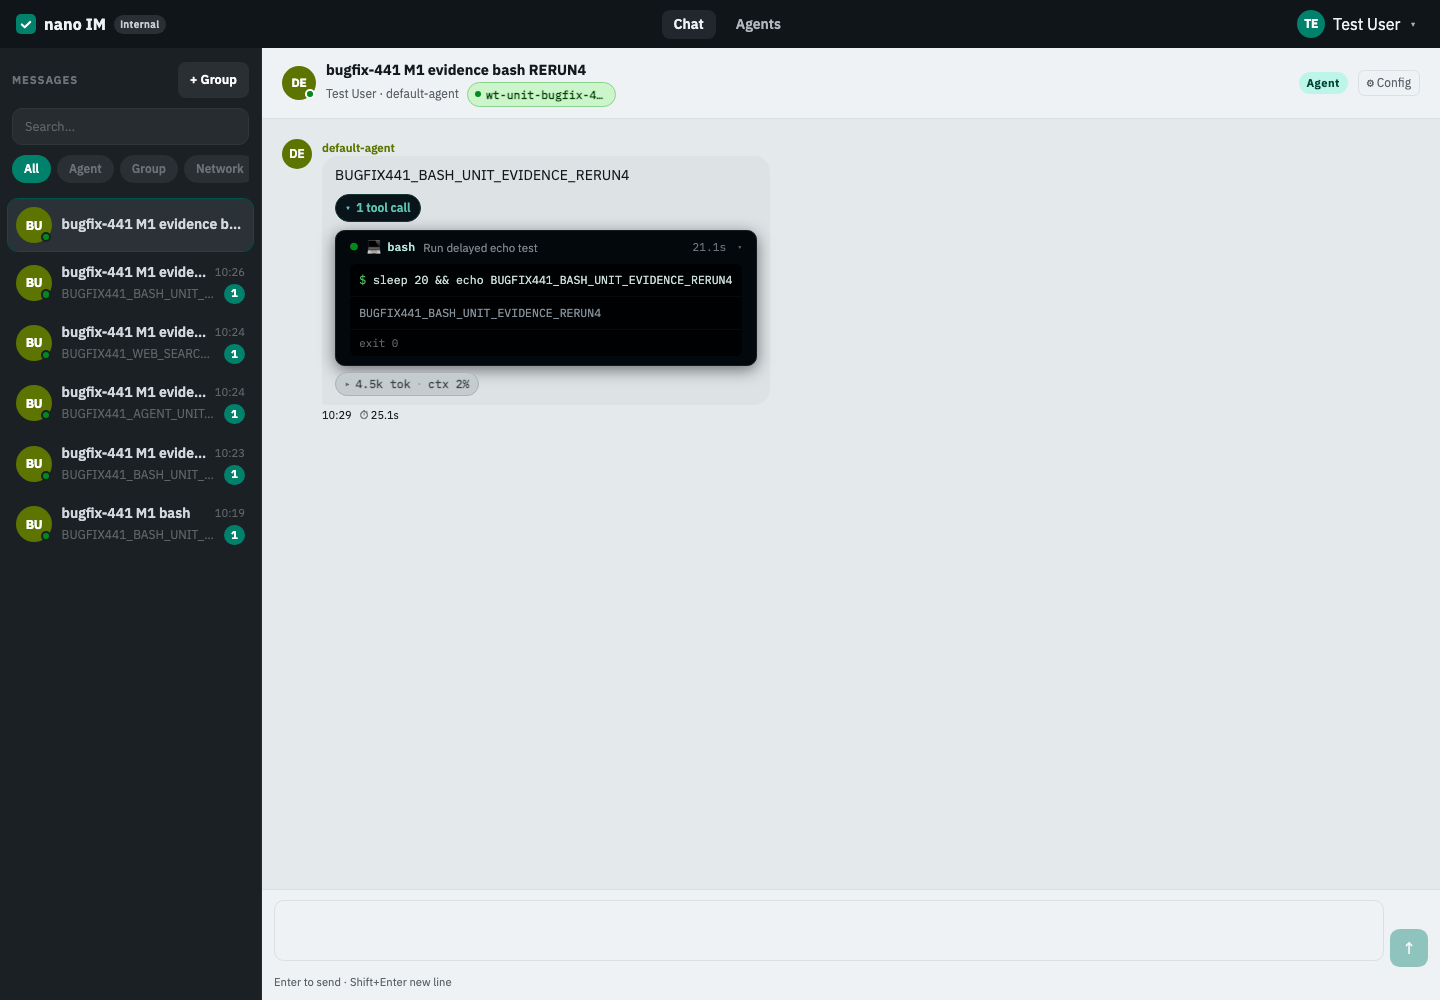
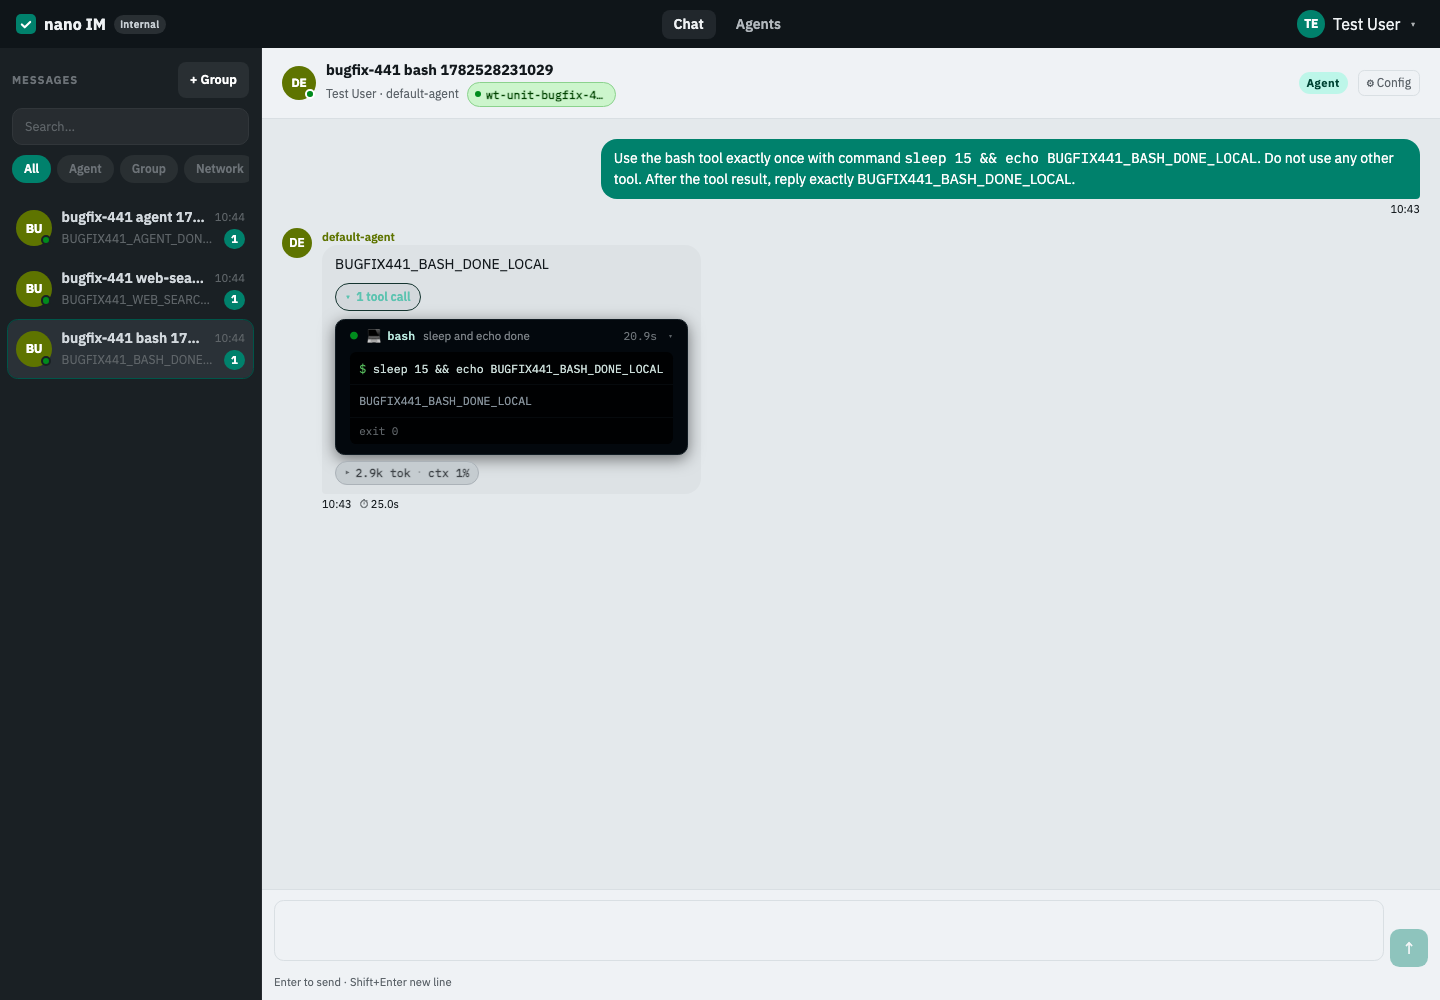
docs(bugfix-441/M1/R3): refresh live UI evidence paths

diff --git a/docs/changes/bugfix-441-running-tool-row-summary-input/M1-split-param-display/progress.md b/docs/changes/bugfix-441-running-tool-row-summary-input/M1-split-param-display/progress.md
@@ -52,7 +52,7 @@
   - Tests: `pytest tests/unit/platform/tools/test_presentation_golden.py` → 14 passed. `pytest -m "not e2e"` first R3 run → 6 failed in `tests/unit/platform/tools/test_presentation_golden.py` only; after golden update → 2989 passed, 1 skipped, 20 deselected, 13 warnings. Frontend `npm run test` → 60 files / 491 tests passed. Frontend `npm run build` → passed with existing dynamic-import/chunk-size warnings.
   - Entry: R3 broad gates exercise the full presenter/gateway/frontend test surface added in R1/R2 plus the existing golden contract suite.
   - Frontend State Matrix: Unit/vitest coverage is green for loading/running, empty, default/completed, error, long content, and missing/nullable detail. True browser coverage confirms desktop running/completed states in the real app shell.
-  - Browser QA: re-ran true stack from the unit worktree after milestone cleanup, with IM at `http://127.0.0.1:59470`, Gateway `--foreground --auto-bind` pid `60173`, node `wt-unit-bugfix-441-60045`, and Vite at `http://127.0.0.1:50065/` proxying that IM. Chromium drove the authenticated Web IM against `default-agent` (`agent_user_id=21e6945f02d9466d81aa98ebab074073`). Repro metadata is committed at `docs/changes/bugfix-441-running-tool-row-summary-input/M1-split-param-display/evidence/metadata.json`.
+  - Browser QA: re-ran true stack from the unit worktree after milestone cleanup, with IM at `http://127.0.0.1:63395`, Gateway `--foreground --auto-bind` pid `12271`, node `wt-unit-bugfix-441-12179`, and Vite at `http://127.0.0.1:63132/` proxying that IM. Chromium drove the authenticated Web IM against `default-agent` (`agent_user_id=d9ce44b8fe124a059172244dc995ac91`). Repro metadata is committed at `docs/changes/bugfix-441-running-tool-row-summary-input/M1-split-param-display/evidence/metadata.json`.
   - Browser QA screenshots:
     - bash running: `docs/changes/bugfix-441-running-tool-row-summary-input/M1-split-param-display/evidence/bugfix-441-M1-bash-running.png`
     - bash completed: `docs/changes/bugfix-441-running-tool-row-summary-input/M1-split-param-display/evidence/bugfix-441-M1-bash-completed.png`
@@ -60,8 +60,8 @@
     - agent completed: `docs/changes/bugfix-441-running-tool-row-summary-input/M1-split-param-display/evidence/bugfix-441-M1-agent-completed.png`
     - web_search running: `docs/changes/bugfix-441-running-tool-row-summary-input/M1-split-param-display/evidence/bugfix-441-M1-web-search-running.png`
     - web_search completed: `docs/changes/bugfix-441-running-tool-row-summary-input/M1-split-param-display/evidence/bugfix-441-M1-web-search-completed.png`
-  - E2E/Regression: bash conversation `e8f1c2c0e3094fbea034bd273da0f53a`, user message `329fefac1b3a4ea39a66ef51bcf538c9`, agent message `b4beac2ef0514022b1c0093e9c612fde`, ran `sleep 20 && echo BUGFIX441_BASH_UNIT_EVIDENCE_RERUN4` and completed with sentinel `BUGFIX441_BASH_UNIT_EVIDENCE_RERUN4`. Agent conversation `216ddf448d15404ea90d4c512329d186`, user message `b1434799ec734f96a50d5d01680ff3ce`, agent message `cf41823b4aed45a99aa0b330e35be3ad`, captured prompt `sleep 25 && echo BUGFIX441_AGENT_UNIT_EVIDENCE_RERUN5` and final sentinel `BUGFIX441_AGENT_UNIT_EVIDENCE_RERUN5`. Web_search conversation `4a6b9fa3f91940efaa7d4308fc0353a2`, user message `e8fa6380844445bb9b793d54c679565e`, running agent message `6bc1901e883d433095da8004513b9c74`, completed agent message `fcd250669fed468f8bf48ee0188ba3c9`, captured query `bugfix-441 running tool row summary input nano-multiagent` and final sentinel `BUGFIX441_WEB_SEARCH_UNIT_EVIDENCE_RERUN4`.
-  - Visual/Interaction: bash running screenshot shows `1 tool call · running`, expanded `bash` with command `sleep 20 && echo BUGFIX441_BASH_UNIT_EVIDENCE_RERUN4`, and no output/completion marker. Agent running screenshot shows `1 tool call · running`, expanded `agent` dispatch prompt with `sleep 25 && echo BUGFIX441_AGENT_UNIT_EVIDENCE_RERUN5`, and no completed result marker. Web_search running screenshot shows `1 tool call · running`, expanded query, and no `No results` empty state. Completed screenshots show the same rows after tool completion with parameter plus result detail visible.
+  - E2E/Regression: bash conversation `05bde5854e9049a2aa59f4978bacbc9d`, user message `36b349f84a2341218872f21a36b1a6c6`, agent message `42c0f6c5b1a848eebe4193c16cb5ad20`, ran `sleep 15 && echo BUGFIX441_BASH_DONE_LOCAL` and completed with sentinel `BUGFIX441_BASH_DONE_LOCAL`. Agent conversation `4a0f6ded68ed4e918900197a4ca4a473`, user message `7d9b49374708410c83cf74fc3a010a67`, agent message `51fc5642c5eb474188cfcde9f4dba866`, captured prompt `sleep 15 && echo BUGFIX441_AGENT_DONE_LOCAL` and final sentinel `BUGFIX441_AGENT_DONE_LOCAL`. Web_search conversation `934f49c7f8d6476ea6184c6692cbb085`, user message `c879d7de68e24f58b9dd9e5f15f00578`, agent message `1f8919515c3943ad9fe0dc4c70df1a86`, captured query `bugfix-441 running tool row summary input nano-multiagent` and final sentinel `BUGFIX441_WEB_SEARCH_DONE_LOCAL`; this local environment lacks provider dependency `ddgs`, so completion is a final failed tool row with the error card rather than search results.
+  - Visual/Interaction: bash running screenshot shows `1 tool call · running`, expanded `bash` with command `sleep 15 && echo BUGFIX441_BASH_DONE_LOCAL`, and no output/completion marker. Agent running screenshot shows `1 tool call · running`, expanded `agent` dispatch prompt with `sleep 15 && echo BUGFIX441_AGENT_DONE_LOCAL`, and no completed result marker. Web_search running screenshot shows `1 tool call · running`, expanded query, and no `No results` empty state. Completed screenshots show the same rows after tool completion with parameter plus result detail visible; web_search completion shows the final provider error card because `ddgs` is absent.
 - Rollback: Revert `4b55404b` to restore the old golden expectations; revert R2/R1 commits listed above for implementation rollback.
 - Commits: C1=4b55404b, C2=live IM Web UI evidence, C3=this docs update
 - Next: Merge milestone branch into `unit/bugfix-441`, push, and clean milestone worktree/branch.
